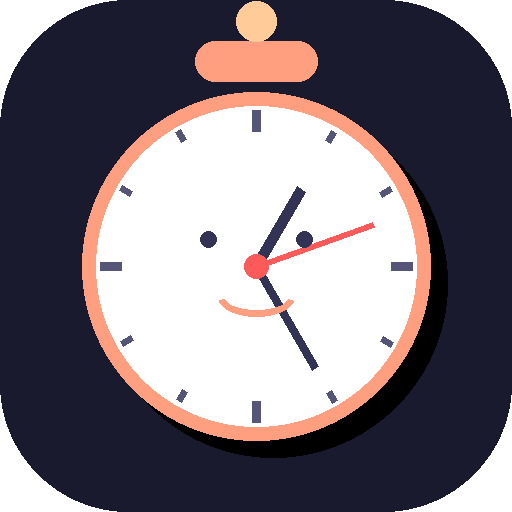
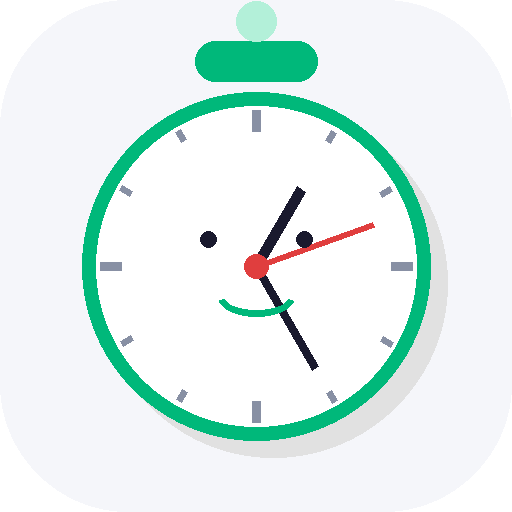
Add files via upload

diff --git a/attendance.html b/attendance.html
@@ -10,19 +10,19 @@
 <meta name="apple-mobile-web-app-capable" content="yes">
 <meta name="apple-mobile-web-app-status-bar-style" content="black-translucent">
 <meta name="apple-mobile-web-app-title" content="출퇴근">
-<meta name="theme-color" content="#0d0d0f">
+<meta name="theme-color" content="#f5f6fa">
 <style>
 @import url('https://fonts.googleapis.com/css2?family=Noto+Sans+KR:wght@300;400;700;900&family=DM+Mono:wght@400;500&display=swap');
 
 :root {
-  --bg: #0d0d0f;
-  --surface: #16161a;
-  --border: #2a2a32;
-  --text: #f0f0f5;
-  --muted: #6b6b7e;
-  --in: #00e5a0;
-  --out: #ff5a5a;
-  --accent: #7c6bff;
+  --bg: #f5f6fa;
+  --surface: #ffffff;
+  --border: #e0e3ee;
+  --text: #1a1a2e;
+  --muted: #8890a4;
+  --in: #00b87a;
+  --out: #e03e3e;
+  --accent: #5b50d6;
 }
 
 * { box-sizing: border-box; margin: 0; padding: 0; -webkit-tap-highlight-color: transparent; }
@@ -34,6 +34,7 @@ body { background: var(--bg); color: var(--text); font-family: 'Noto Sans KR', s
   background: var(--surface); border-top: 1px solid var(--border);
   display: flex; z-index: 50;
   padding-bottom: env(safe-area-inset-bottom);
+  box-shadow: 0 -2px 12px rgba(0,0,0,0.06);
 }
 .tab-btn {
   flex: 1; padding: 12px 0 10px; background: none; border: none;
@@ -48,16 +49,16 @@ body { background: var(--bg); color: var(--text); font-family: 'Noto Sans KR', s
 .page.active { display: flex; flex-direction: column; gap: 16px; }
 
 /* ── 카드 ── */
-.card { background: var(--surface); border: 1px solid var(--border); border-radius: 20px; padding: 18px 20px; }
+.card { background: var(--surface); border: 1px solid var(--border); border-radius: 20px; padding: 18px 20px; box-shadow: 0 2px 8px rgba(0,0,0,0.06); }
 .card-title { font-size: 11px; font-weight: 400; letter-spacing: 0.2em; color: var(--muted); text-transform: uppercase; margin-bottom: 14px; }
 
 /* ── 헤더/시계 ── */
 .header { text-align: center; padding: 16px 0 0; }
 .header h1 { font-size: 12px; font-weight: 400; letter-spacing: 0.25em; color: var(--muted); }
 .date-now { font-family: 'DM Mono', monospace; font-size: 13px; color: var(--text); opacity: 0.6; margin-top: 4px; }
-.clock-card { text-align: center; }
-.clock { font-family: 'DM Mono', monospace; font-size: 50px; font-weight: 500; letter-spacing: -1px; line-height: 1; }
-.clock-sec { font-size: 28px; color: var(--muted); }
+.clock-card { text-align: center; background: linear-gradient(135deg, #e6fff6, #f0eeff); }
+.clock { font-family: 'DM Mono', monospace; font-size: 50px; font-weight: 700; letter-spacing: -1px; line-height: 1; color: var(--text); }
+.clock-sec { font-size: 28px; color: var(--muted); font-weight: 400; }
 
 /* ── 버튼 ── */
 .btn-row { display: grid; grid-template-columns: 1fr 1fr; gap: 12px; }
@@ -68,8 +69,8 @@ body { background: var(--bg); color: var(--text); font-family: 'Noto Sans KR', s
   transition: transform 0.12s;
 }
 .btn:active { transform: scale(0.95); }
-.btn-in  { background: rgba(0,229,160,0.08); border: 1.5px solid rgba(0,229,160,0.3); color: var(--in); }
-.btn-out { background: rgba(255,90,90,0.08); border: 1.5px solid rgba(255,90,90,0.3); color: var(--out); }
+.btn-in  { background: #e6fff6; border: 1.5px solid #b3f0d9; color: var(--in); }
+.btn-out { background: #fff0f0; border: 1.5px solid #f5c0c0; color: var(--out); }
 .btn-icon { font-size: 28px; } .btn-label { font-size: 18px; font-weight: 700; } .btn-sub { font-size: 10px; opacity: 0.6; }
 
 /* ── 오늘 기록 ── */
@@ -82,8 +83,8 @@ body { background: var(--bg); color: var(--text); font-family: 'Noto Sans KR', s
 
 /* ── 과제 배지 ── */
 .task-badge {
-  display: inline-block; background: rgba(124,107,255,0.15);
-  border: 1px solid rgba(124,107,255,0.4); color: var(--accent);
+  display: inline-block; background: #f0eeff;
+  border: 1px solid #c8c0f5; color: var(--accent);
   font-size: 12px; padding: 4px 10px; border-radius: 20px; margin-bottom: 12px;
 }
 
@@ -102,13 +103,13 @@ body { background: var(--bg); color: var(--text); font-family: 'Noto Sans KR', s
 }
 .cal-day:active { transform: scale(0.9); }
 .cal-day.empty { cursor: default; }
-.cal-day.today { border: 1.5px solid var(--in); }
-.cal-day.has-record { background: rgba(0,229,160,0.07); }
-.cal-day.selected { background: rgba(0,229,160,0.2) !important; }
-.cal-day.sunday { color: var(--out); } .cal-day.saturday { color: var(--accent); } .cal-day.holiday { color: var(--out); }
-.cal-day.in-task { background: rgba(124,107,255,0.1); border-bottom: 2px solid var(--accent); }
-.cal-day.in-task.has-record { background: rgba(124,107,255,0.15); }
-.cal-day.short { background: rgba(255,90,90,0.18) !important; border: 1px solid rgba(255,90,90,0.35); }
+.cal-day.today { border: 2px solid var(--in); background: #e6fff6; }
+.cal-day.has-record { background: #edfff8; }
+.cal-day.selected { background: #c8f7e8 !important; }
+.cal-day.sunday { color: #e03e3e; } .cal-day.saturday { color: #5b50d6; } .cal-day.holiday { color: #e03e3e; }
+.cal-day.in-task { background: #f0eeff; border-bottom: 2px solid var(--accent); }
+.cal-day.in-task.has-record { background: #e8e4ff; }
+.cal-day.short { background: #ffe8e8 !important; border: 1px solid #f5c0c0; }
 .cal-dot { width: 4px; height: 4px; border-radius: 50%; background: var(--in); }
 
 /* ── 과제 진행현황 ── */
@@ -124,7 +125,7 @@ body { background: var(--bg); color: var(--text); font-family: 'Noto Sans KR', s
 .p-val.accent { color: var(--accent); }
 
 /* ── 날짜 상세 ── */
-.detail-panel { background: var(--bg); border: 1px solid var(--border); border-radius: 14px; padding: 16px; margin-top: 12px; display: none; }
+.detail-panel { background: #f8f9fd; border: 1px solid var(--border); border-radius: 14px; padding: 16px; margin-top: 12px; display: none; }
 .detail-panel.show { display: block; }
 .detail-date { font-family: 'DM Mono', monospace; font-size: 13px; color: var(--muted); margin-bottom: 8px; }
 .detail-row { display: flex; justify-content: space-between; align-items: center; padding: 8px 0; border-bottom: 1px solid var(--border); }
@@ -138,7 +139,7 @@ body { background: var(--bg); color: var(--text); font-family: 'Noto Sans KR', s
 .input-row { display: flex; flex-direction: column; gap: 8px; margin-bottom: 10px; }
 .input-label { font-size: 12px; color: var(--muted); }
 input[type="text"], input[type="date"] {
-  width: 100%; background: var(--bg); border: 1px solid var(--border);
+  width: 100%; background: #f8f9fd; border: 1px solid var(--border);
   border-radius: 10px; padding: 11px 14px; color: var(--text);
   font-family: 'Noto Sans KR', sans-serif; font-size: 14px; outline: none;
 }
@@ -163,17 +164,17 @@ input::placeholder { color: var(--border); }
 
 /* ── 통계 ── */
 .stat-grid { display: grid; grid-template-columns: 1fr 1fr; gap: 10px; }
-.stat-item { background: var(--bg); border: 1px solid var(--border); border-radius: 14px; padding: 14px; }
+.stat-item { background: #f8f9fd; border: 1px solid var(--border); border-radius: 14px; padding: 14px; }
 .stat-label { font-size: 11px; color: var(--muted); margin-bottom: 6px; }
 .stat-value { font-family: 'DM Mono', monospace; font-size: 22px; font-weight: 500; }
 .stat-value.green { color: var(--in); } .stat-value.red { color: var(--out); }
 
 /* ── 설정 ── */
-.save-btn { width: 100%; margin-top: 8px; background: var(--border); border: none; border-radius: 10px; padding: 13px; color: var(--text); font-family: 'Noto Sans KR', sans-serif; font-size: 14px; font-weight: 700; cursor: pointer; }
+.save-btn { width: 100%; margin-top: 8px; background: #eef0f7; border: 1px solid var(--border); border-radius: 10px; padding: 13px; color: var(--text); font-family: 'Noto Sans KR', sans-serif; font-size: 14px; font-weight: 700; cursor: pointer; }
 
 /* ── 아코디언 ── */
 .accordion { display: flex; flex-direction: column; gap: 8px; }
-.acc-item { background: var(--bg); border: 1px solid var(--border); border-radius: 12px; overflow: hidden; }
+.acc-item { background: #f8f9fd; border: 1px solid var(--border); border-radius: 12px; overflow: hidden; }
 .acc-header {
   display: flex; justify-content: space-between; align-items: center;
   padding: 13px 14px; cursor: pointer; font-size: 13px; font-weight: 700;
@@ -199,15 +200,15 @@ input::placeholder { color: var(--border); }
 .toast {
   position: fixed; bottom: 80px; left: 50%;
   transform: translateX(-50%) translateY(30px);
-  background: #1e1e28; border: 1px solid var(--border);
+  background: #ffffff; border: 1px solid var(--border);
   border-radius: 12px; padding: 12px 22px;
   font-size: 14px; font-weight: 500; white-space: nowrap;
   transition: transform 0.3s cubic-bezier(0.34,1.56,0.64,1), opacity 0.3s;
   opacity: 0; z-index: 200;
 }
 .toast.show { transform: translateX(-50%) translateY(0); opacity: 1; }
-.toast.success { border-color: var(--in); color: var(--in); }
-.toast.error   { border-color: var(--out); color: var(--out); }
+.toast.success { border-color: var(--in); color: var(--in); box-shadow: 0 4px 16px rgba(0,184,122,0.15); }
+.toast.error   { border-color: var(--out); color: var(--out); box-shadow: 0 4px 16px rgba(224,62,62,0.15); }
 .toast.info    { border-color: var(--muted); color: var(--text); }
 </style>
 </head>